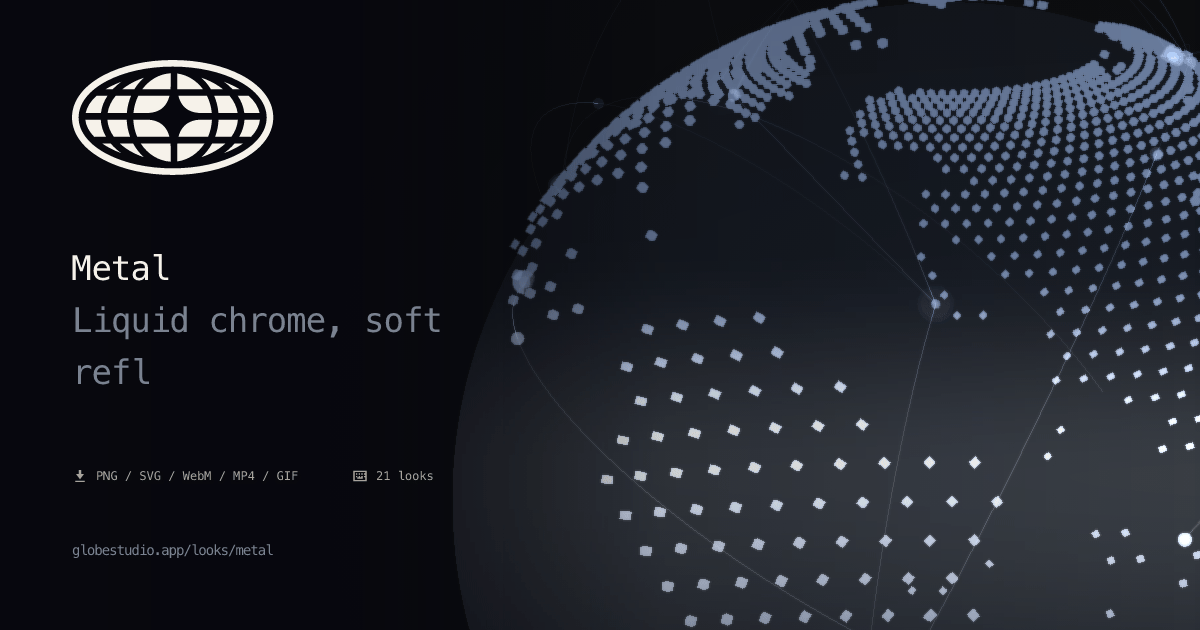
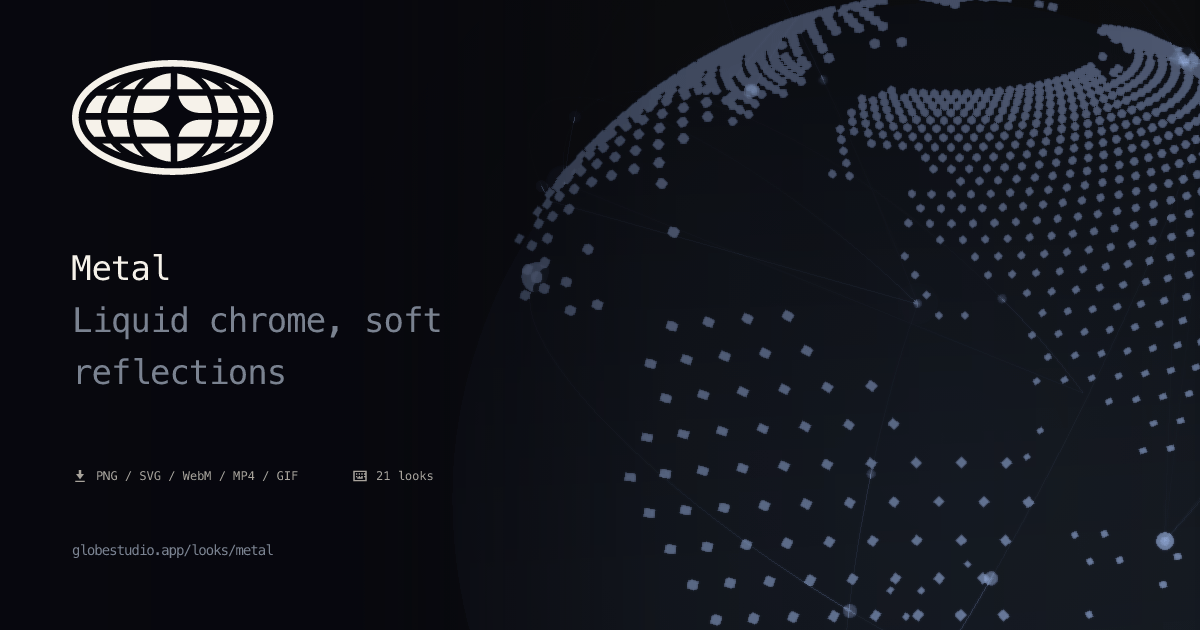
fix(looks): finish the Metal blurb cut off at "soft refl"
The Metal look's blurb stopped mid-word ("Liquid chrome, soft refl")
since 8a98baf, and every surface that prints it showed the stub: the
looks bar tooltip, the /looks/metal detail, /docs, the share card and
its alt text. It now reads "Liquid chrome, soft reflections", the
wording llms-full.txt already used. The MCP server keeps its own blurbs
and never had the stub, so it is unchanged.

og/metal.png is recaptured with scripts/capture-og-canvas.js against a
VITE_TEASER unset build and cut to an 8-bit palette (162 KB, under the
300 KB limit). It keeps the ?v=2 URL: the ?v=2 bump (f5b6fdf) is not on
main yet, so no scraper has cached a ?v=2 metal card.

diff --git a/src/data/look-presets.js b/src/data/look-presets.js
@@ -259,7 +259,7 @@ export const lookPresets = [
   {
     id: "metal",
     name: "Metal",
-    blurb: "Liquid chrome, soft refl",
+    blurb: "Liquid chrome, soft reflections",
     settings: merge({
       background: "#08080e",
       density: 70,
